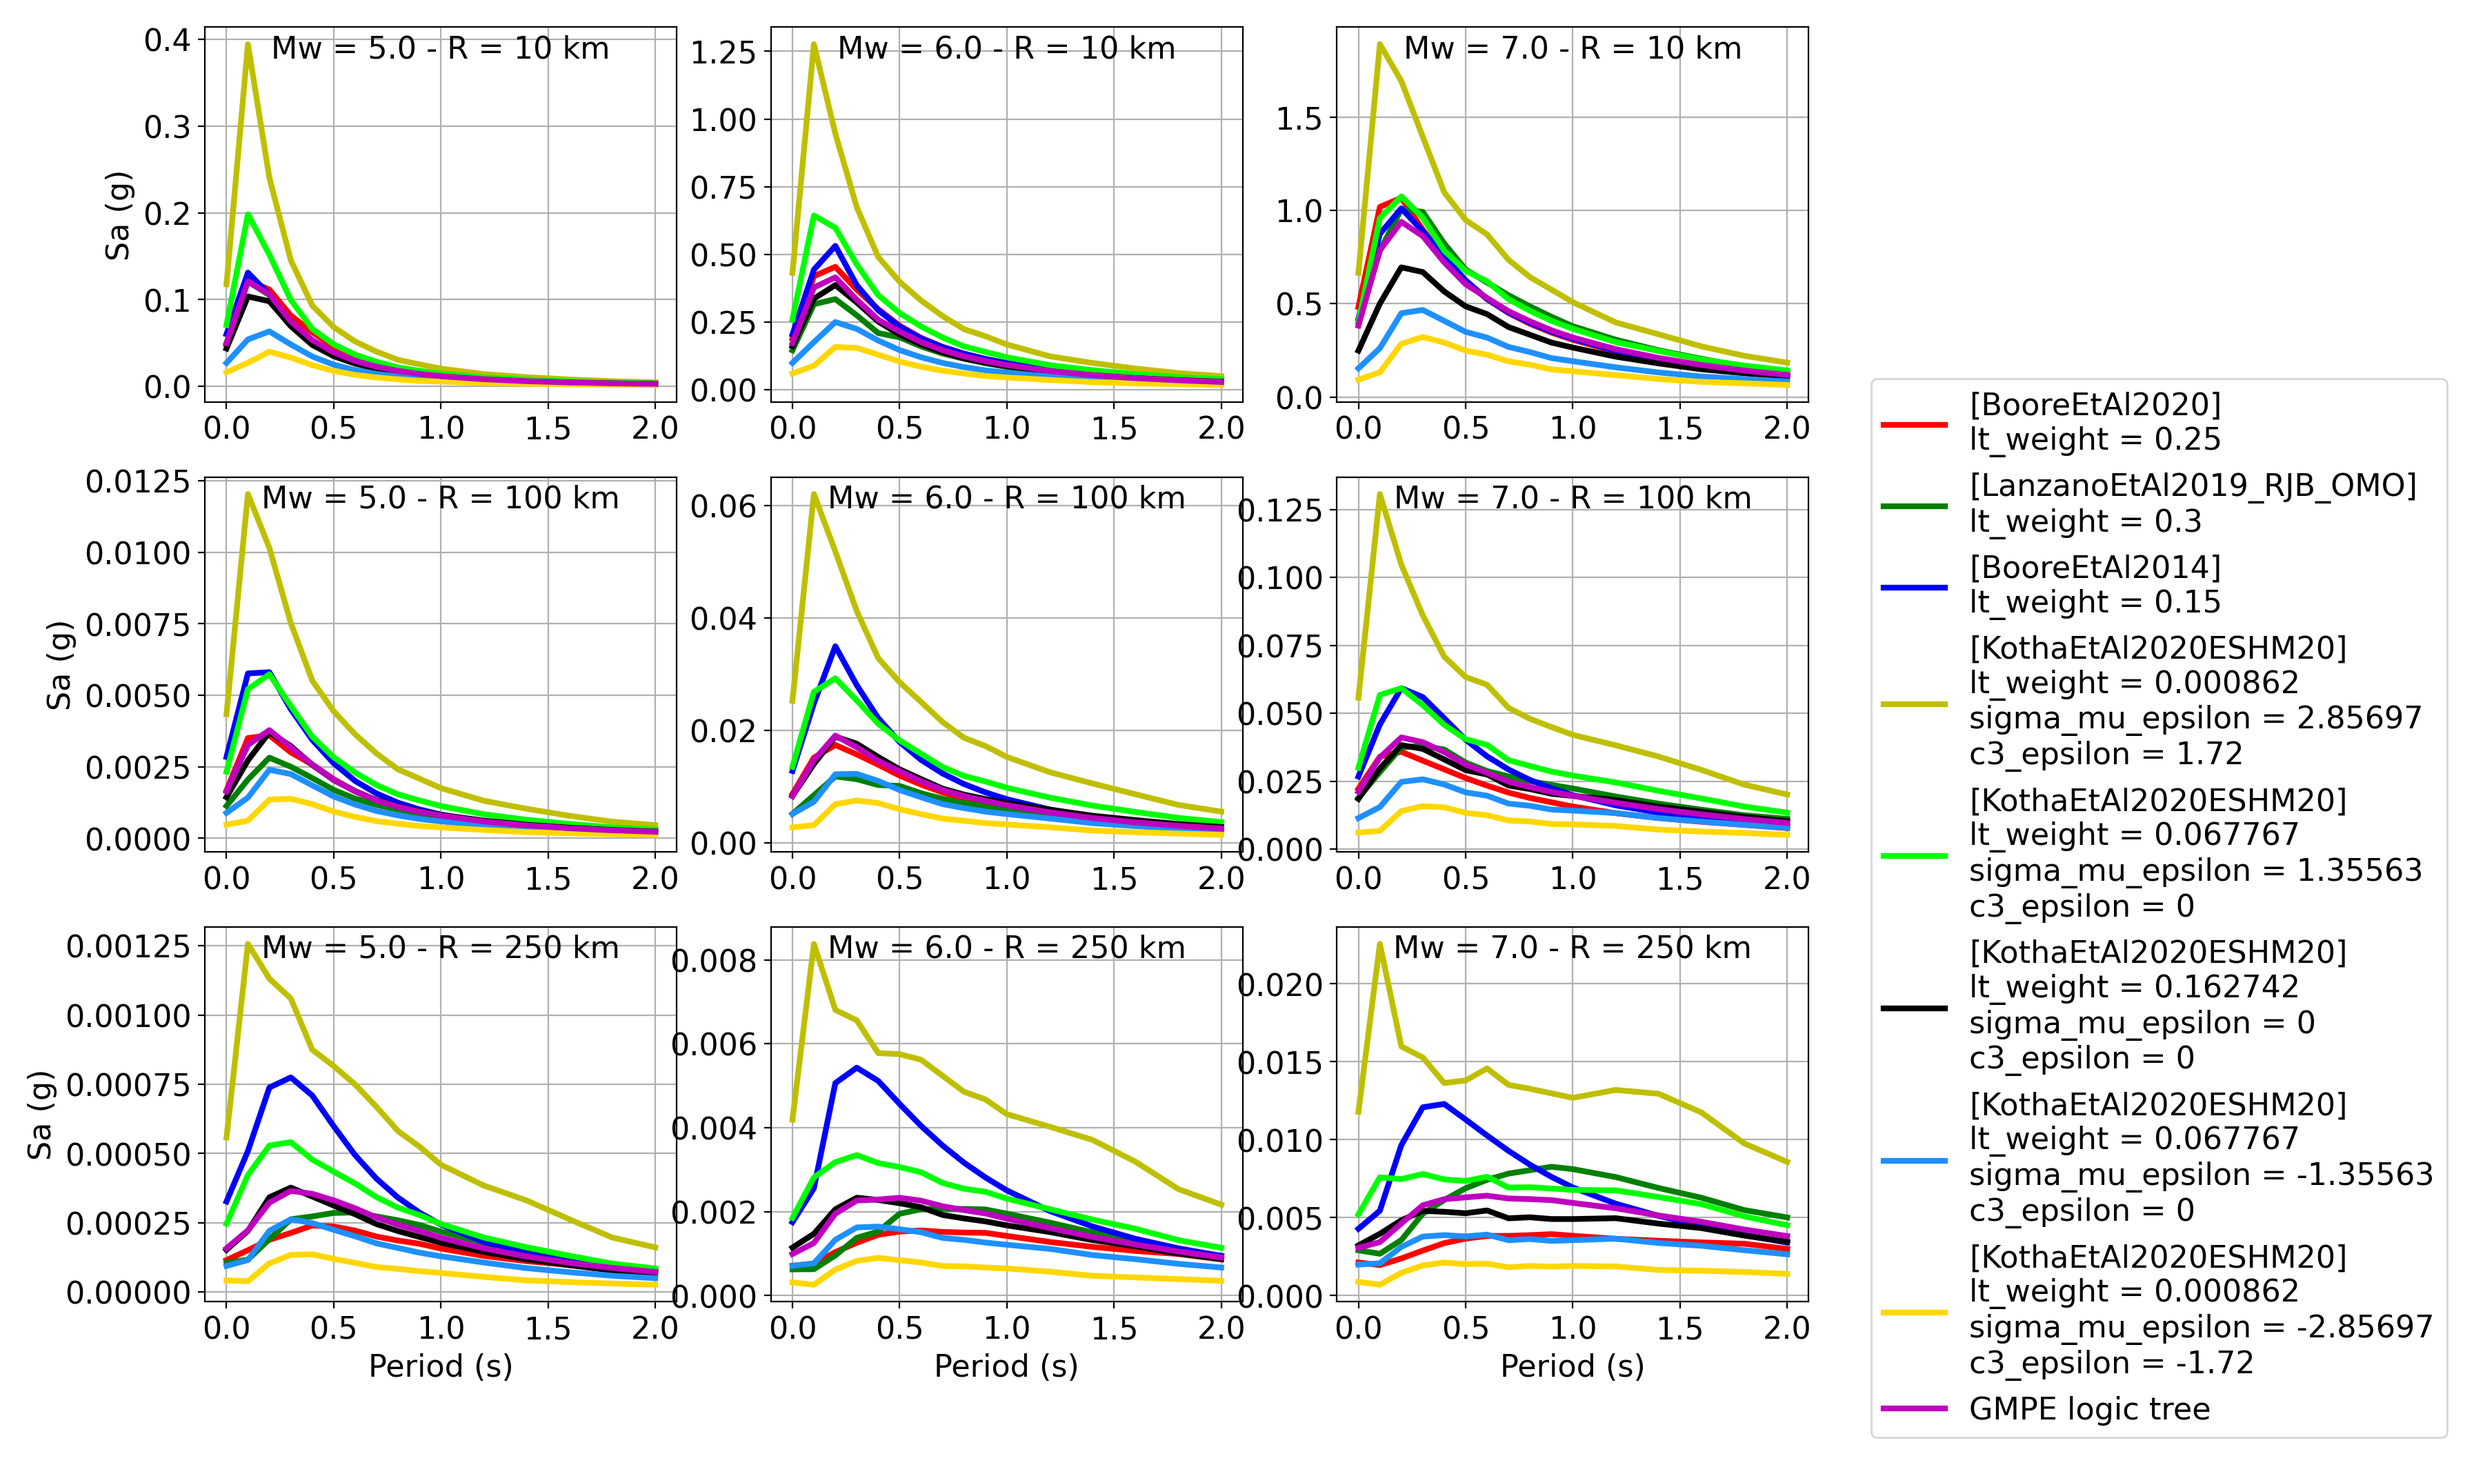
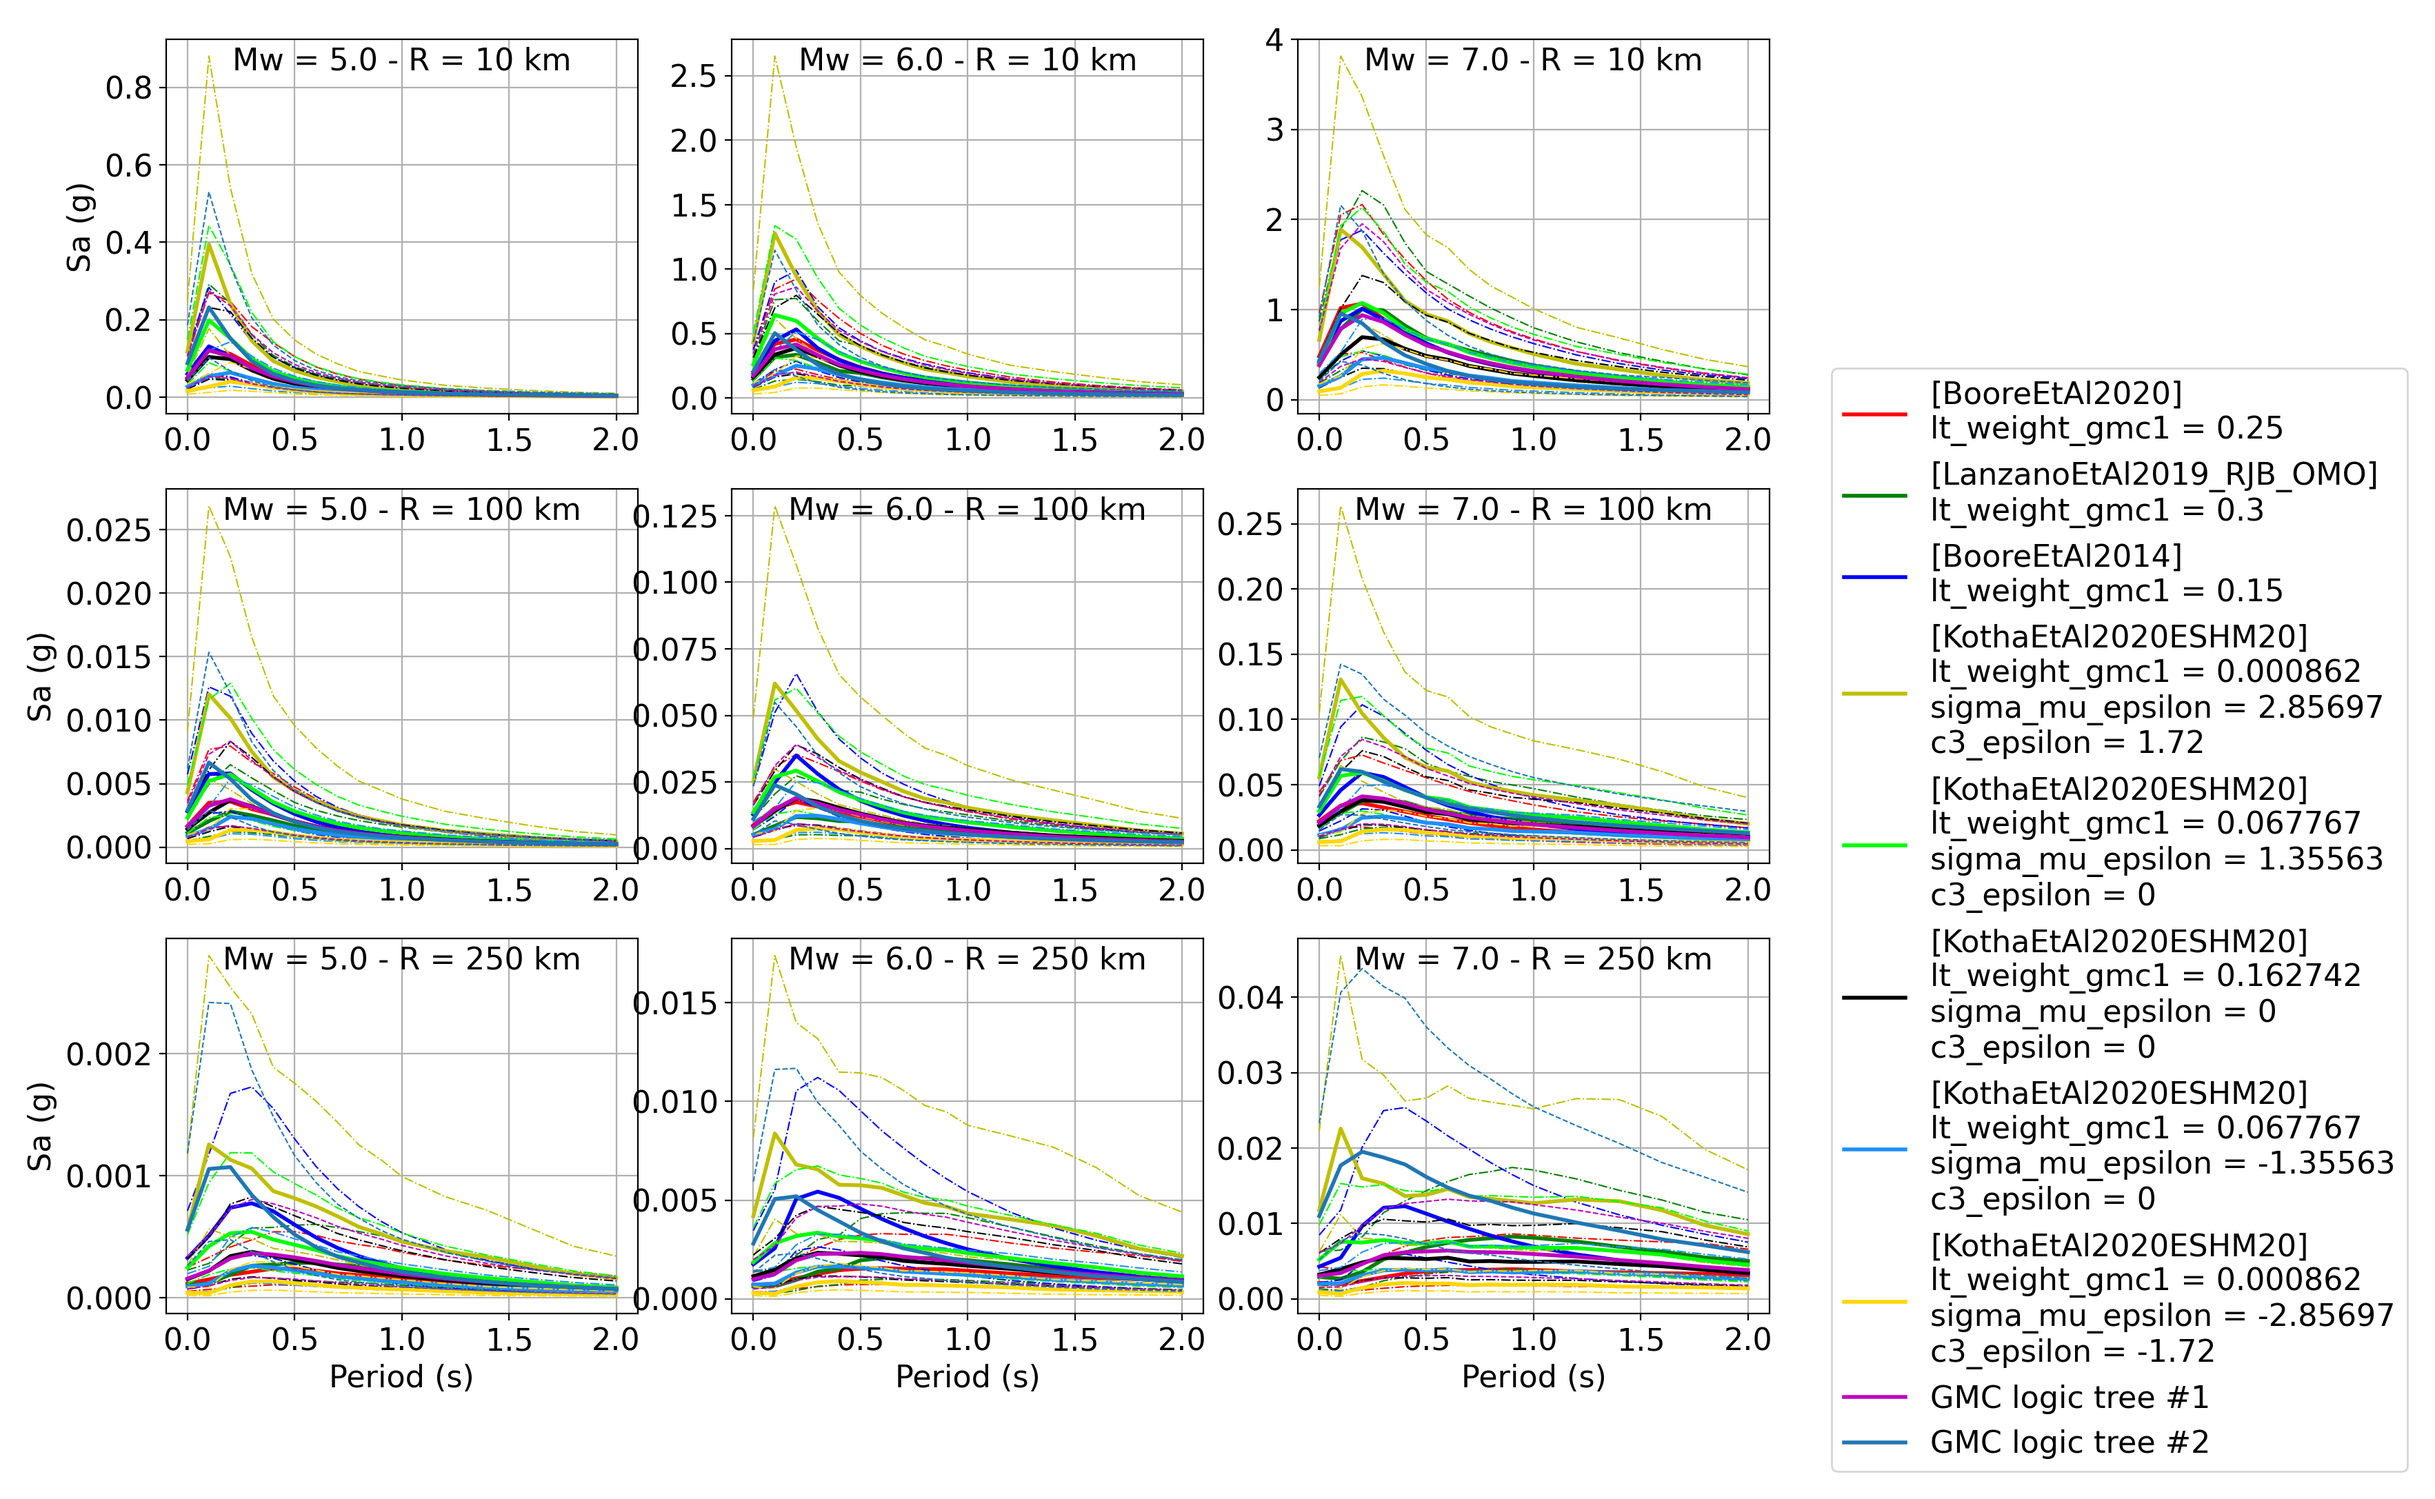
ability to plot multiple GMC logic trees in comparison module trellis and response spectra plots

Changed region(s): [[0.0, 0.0, 0.9969, 0.9944]]

diff --git a/openquake/smt/tests/comparison/comparison_test.py b/openquake/smt/tests/comparison/comparison_test.py
@@ -253,7 +253,7 @@ class ComparisonTestCase(unittest.TestCase):
                      config.maxR, config.gmpes_list, config.aratio,
                      config.Nstd, self.output_directory, config.custom_color_flag,
                      config.custom_color_list, config.eshm20_region,
-                     config.lt_weights)
+                     config.lt_weights_gmc1, config.lt_weights_gmc2)
         
         # Spectra plots 
         plot_spectra_util(config.rake, config.strike, config.dip,
@@ -263,7 +263,7 @@ class ComparisonTestCase(unittest.TestCase):
                           config.gmpes_list, config.aratio, config.Nstd,
                           self.output_directory, config.custom_color_flag,
                           config.custom_color_list, config.eshm20_region,
-                          config.lt_weights) 
+                          config.lt_weights_weights_gmc1, config.lt_weights_gmc2) 
        
         # Specify target files
         target_file_trellis = (os.path.join(self.output_directory,'TrellisPlots.png'))

diff --git a/docsrc/contents/smt.rst b/docsrc/contents/smt.rst
@@ -423,7 +423,7 @@ Comparing GMPEs
 
 2. The tools within the Comparison module include Sammon's Maps, hierarchical clustering and matrix plots of Euclidean distance for both median and 84th percentile of predicted ground-motion per GMPE per intensity measure. Plotting capabilities for response spectra, GMPE sigma with respect to spectral period and trellis plots are also provided in this module.
 
-   The inputs for these comparitive tools must be specified within a single ``.toml`` file as specified below. In the ``.toml`` file we have specified the source parameters for earthquakes characteristic of Albania (compressional thrust faulting with magnitudes of interest w.r.t. seismic hazard in the range of Mw 5 to Mw 7), and we have specified a selection of GMPEs which may best capture the epistemic uncertainty associated with predicting the ground-shaking from earthquakes in/near Albania if implemented in a GMPE logic tree (to plot a GMPE logic tree we assign model weights using ``lt_weight_gmc1`` or '``lt_weight_gmc2`` in each model. To plot only the final logic tree and not the individual GMPEs comprising it, we use ``lt_weight_gmc1_plot_lt_only`` or ``lt_weight_gmc2_plot_lt_only`` instead (depending on which GMC we wish to not plot the individual GMPEs for).
+   The inputs for these comparitive tools must be specified within a single ``.toml`` file as specified below. In the ``.toml`` file we have specified the source parameters for earthquakes characteristic of Albania (compressional thrust faulting with magnitudes of interest w.r.t. seismic hazard in the range of Mw 5 to Mw 7), and we have specified a selection of GMPEs which may best capture the epistemic uncertainty associated with predicting the ground-shaking from earthquakes in/near Albania if implemented in a GMPE logic tree (to plot a GMPE logic tree we assign model weights using ``lt_weight_gmc1`` or '``lt_weight_gmc2`` in each GMPE depending on if we want to plot said GMPE within GMC logic tree #1 or #2 (up to 2 GMC logic trees can currently be plotted within one trellis or response spectra plot at a time). To plot only the final logic tree and not the individual GMPEs comprising it, we use ``lt_weight_gmc1_plot_lt_only`` or ``lt_weight_gmc2_plot_lt_only`` instead (depending on which GMC we wish to not plot the individual GMPEs for - see the .toml file below for an example of these potential configurations).
 
     .. code-block:: ini
     
@@ -502,7 +502,7 @@ Comparing GMPEs
             lt_weight_gmc2_plot_lt_only = 0.50
             
         [models.AkkarEtAlRjb2014]
-            lt_weight_gmc1_plot_lt_only = 0.50
+            lt_weight_gmc2_plot_lt_only = 0.50
             
         [custom_colors]
         custom_colors_flag = 'False' #(set to "True" for custom colours in plots)
